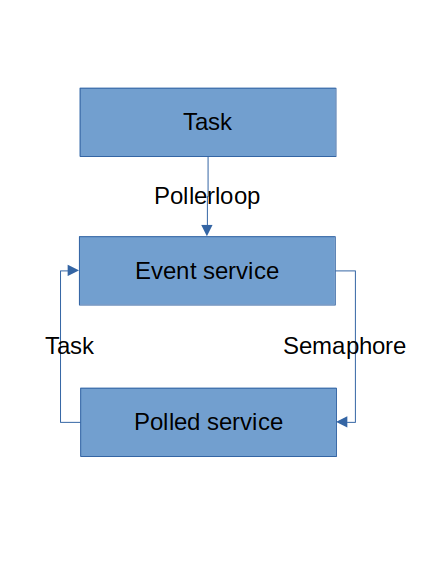
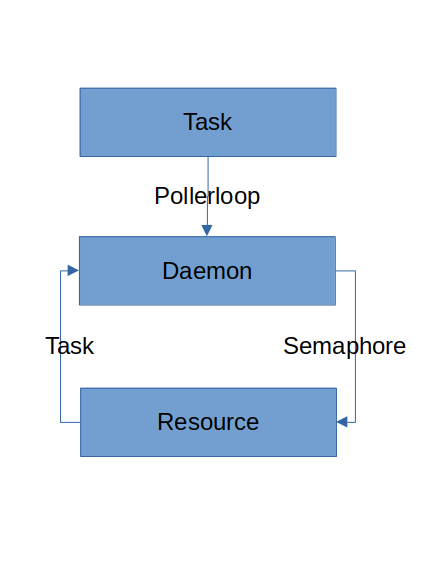
readme

Changed region(s): [[0.3009, 0.4375, 0.662, 0.5], [0.3009, 0.7188, 0.662, 0.75]]

diff --git a/docs/index.html b/docs/index.html
@@ -5,8 +5,8 @@
 <p>Startable 是一个 JavaScript 的 Daemon 生命周期管理器。初衷是为了适配阿里开源 Node.js 进程管理器 <a href="https://github.com/midwayjs/pandora">Pandora</a>。</p>
 <p><a href="./docs/index.html">API</a></p>
 
-<a href="#功能分类" id="功能分类" style="color: inherit; text-decoration: none;">
-  <h2>功能分类</h2>
+<a href="#服务" id="服务" style="color: inherit; text-decoration: none;">
+  <h2>服务</h2>
 </a>
 <ul>
 <li>任务</li>
@@ -15,7 +15,7 @@
 <p>  服务占有线程，用户被调用。俗称 Daemon。</p>
 </li>
 <li><p>轮询式</p>
-<p>  用户占有线程，服务被调用。</p>
+<p>  用户占有线程，服务被调用。俗称资源。</p>
 <p>  新开一个线程写个循环转换为事件触发式。</p>
 <ul>
 <li>阻塞式读写单条消息（使用 libev 转换为回调式）</li>
@@ -32,10 +32,10 @@
 <p>C 语言打开一个文件的过程由内核确保事务性，打开失败等于梅开。而用户态服务的启动过程如果失败了，内部组件可能开了一半，处于不一致状态，因此打开失败后也必须关闭。</p>
 <p><img src="./conversion.png" alt="转换关系"></p>
 
-<a href="#daemon" id="daemon" style="color: inherit; text-decoration: none;">
-  <h2>Daemon</h2>
+<a href="#resource" id="resource" style="color: inherit; text-decoration: none;">
+  <h3>Resource</h3>
 </a>
-<p>服务有以下特点</p>
+<p>资源有以下特点</p>
 <ul>
 <li><p>有一个异步的启动和停止过程</p>
 <p>  比如一个 TCP Socket 有一个异步的握手和挥手的过程。</p>
@@ -44,7 +44,11 @@
 <p>  比如一个 TCP Socket 连接时就没连上。</p>
 </li>
 </ul>
-<p>Daemon 在服务的基础上另有以下轮询式服务没有的特点</p>
+
+<a href="#daemon" id="daemon" style="color: inherit; text-decoration: none;">
+  <h3>Daemon</h3>
+</a>
+<p>Daemon 比资源多出以下特点</p>
 <ul>
 <li><p>停止过程可能自发开始</p>
 <p>  比如一个 TCP Socket 可能因可能因网络中断而离开了「正常提供服务中」的状态，不得不自发开始停止过程。</p>
@@ -52,6 +56,7 @@
 </ul>
 <p>写 Daemon 的麻烦之处在于，底层资源可能在 Daemon 生命周期的任何阶段挂掉，可能在启动停止过程中挂掉。</p>
 <p>Startable 是 JavaScript 的 Daemon 生命周期管理器，有了他你就可以把心思花在业务逻辑上。</p>
+<p>当然 Startable 也可以管理资源，毕竟资源可以被看成永不自发停止的 Daemon。</p>
 
 <a href="#best-practices" id="best-practices" style="color: inherit; text-decoration: none;">
   <h2>Best practices</h2>
@@ -109,7 +114,7 @@
 <a href="#健壮性" id="健壮性" style="color: inherit; text-decoration: none;">
   <h2>健壮性</h2>
 </a>
-<pre><code class="language-ts"><span class="hl-0">class</span><span class="hl-1"> </span><span class="hl-2">Daemon</span><span class="hl-1"> </span><span class="hl-0">implements</span><span class="hl-1"> </span><span class="hl-2">DaemonLike</span><span class="hl-1"> {</span><br/><span class="hl-1">    </span><span class="hl-0">public</span><span class="hl-1"> </span><span class="hl-0">constructor</span><span class="hl-1">(</span><br/><span class="hl-1">        </span><span class="hl-0">private</span><span class="hl-1"> </span><span class="hl-3">dep</span><span class="hl-1">: </span><span class="hl-2">Dep</span><span class="hl-1">,</span><br/><span class="hl-1">    ) {}</span><br/><br/><span class="hl-1">    </span><span class="hl-0">private</span><span class="hl-1"> </span><span class="hl-0">async</span><span class="hl-1"> </span><span class="hl-4">rawStart</span><span class="hl-1">() {</span><br/><span class="hl-1">        </span><span class="hl-8">await</span><span class="hl-1"> </span><span class="hl-3">dep</span><span class="hl-1">.</span><span class="hl-3">$s</span><span class="hl-1">.</span><span class="hl-4">start</span><span class="hl-1">(</span><span class="hl-0">this</span><span class="hl-1">.</span><span class="hl-3">$s</span><span class="hl-1">.</span><span class="hl-3">stop</span><span class="hl-1">);</span><br/><span class="hl-1">        </span><span class="hl-8">await</span><span class="hl-1"> </span><span class="hl-3">somePromise</span><span class="hl-1">;</span><br/><span class="hl-1">        </span><span class="hl-3">dep</span><span class="hl-1">.</span><span class="hl-4">someMethod</span><span class="hl-1">(); </span><span class="hl-6">// dep may be STOPPING.</span><br/><span class="hl-1">    }</span><br/><span class="hl-1">}</span>
+<pre><code class="language-ts"><span class="hl-0">class</span><span class="hl-1"> </span><span class="hl-2">Daemon</span><span class="hl-1"> </span><span class="hl-0">implements</span><span class="hl-1"> </span><span class="hl-2">DaemonLike</span><span class="hl-1"> {</span><br/><span class="hl-1">    </span><span class="hl-0">private</span><span class="hl-1"> </span><span class="hl-3">child</span><span class="hl-1">: </span><span class="hl-2">DaemonLike</span><span class="hl-1">;</span><br/><br/><span class="hl-1">    </span><span class="hl-0">private</span><span class="hl-1"> </span><span class="hl-0">async</span><span class="hl-1"> </span><span class="hl-4">rawStart</span><span class="hl-1">() {</span><br/><span class="hl-1">        </span><span class="hl-8">await</span><span class="hl-1"> </span><span class="hl-3">child</span><span class="hl-1">.</span><span class="hl-3">$s</span><span class="hl-1">.</span><span class="hl-4">start</span><span class="hl-1">(</span><span class="hl-0">this</span><span class="hl-1">.</span><span class="hl-3">$s</span><span class="hl-1">.</span><span class="hl-3">stop</span><span class="hl-1">);</span><br/><span class="hl-1">        </span><span class="hl-8">await</span><span class="hl-1"> </span><span class="hl-3">somePromise</span><span class="hl-1">;</span><br/><span class="hl-1">        </span><span class="hl-3">child</span><span class="hl-1">.</span><span class="hl-4">someMethod</span><span class="hl-1">(); </span><span class="hl-6">// child may be STOPPING.</span><br/><span class="hl-1">    }</span><br/><span class="hl-1">}</span>
 </code></pre>
 <p>因此 Daemon 的所有公共方法务必确保健壮性，要么返回正确结果，要么抛出，不能导致不一致的不可预料结果。</p>
 <p>所有 async 公共方法，如果过程中进入 STOPPING，同样要么返回正确结果，要么抛出。</p>
